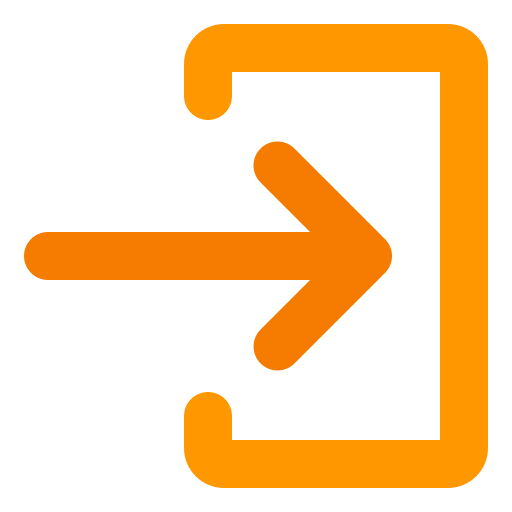
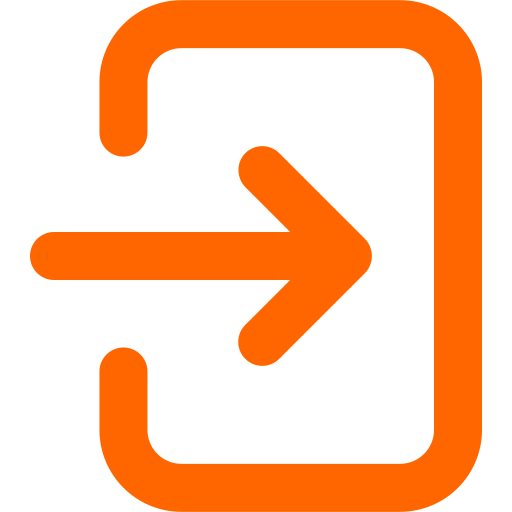
UC15

diff --git a/Aula09/CSS/style.css b/Aula09/CSS/style.css
@@ -8,7 +8,15 @@
     box-sizing: border-box;
 }
 
+html,
 body {
+    height: 100%;
+}
+
+body {
+    min-height: 100vh;
+    display: flex;
+    flex-direction: column;
     background-color: #f7f7f7;
 }
 
@@ -19,11 +27,11 @@ body {
     z-index: 10;
     width: 100%;
     background:#fff;
-    padding: 7px 0px;
     font-size: 14px;
     color: #ff6600;
     box-shadow: 0px 1px 10px #2020201f;
 }
+
 .cabecalho-conteudo {
     max-width: 1200px;
     width: 95%;
@@ -36,10 +44,43 @@ body {
     display: flex;
     align-items: center;
 }
+
+.comeco-cabecalho a {
+    text-decoration: none;
+    color: #ff6600;
+    display: flex;
+    align-items: center;
+    gap: 10px;
+    transition: 0.15s ease all;
+}
+
+.comeco-cabecalho a {
+    display: flex;
+    align-items: center;
+    height: 60px;
+    color: #ff5a00;
+    text-decoration: none;
+}
+
+.comeco-cabecalho a.ativo {
+    border-bottom: 2px solid #ff5a00;
+}
+
 .fim-cabecalho {
     display: flex;
-    gap:10px;
     align-items: center;
+}
+
+.fim-cabecalho a {
+    text-decoration: none;
+    color: #ff6600;
+    display: flex;
+    align-items: center;
+    gap: 10px;
+}
+
+.fim-cabecalho a:hover{
+    text-decoration: underline;
 }
 
 .cadastro {
@@ -222,4 +263,13 @@ body {
     cursor: pointer;
     color: #ff6600;
     background-color: #fff;
+}
+
+.rodape {
+    height: 100%;
+    display: flex;
+    flex-direction: column;
+    align-items: center;
+    justify-content: flex-end;
+    padding: 10px 0px;
 }

diff --git a/Aula09/index.html b/Aula09/index.html
@@ -10,13 +10,15 @@
     <header class="cabecalho">
         <div class="cabecalho-conteudo">
             <section class="comeco-cabecalho">
-                <img src="../Aula09/IMG/Authora.logopretolaranja.jpg" width="120">
-                <p>Cadastrar</p>
+                <img href="#" src="../Aula09/IMG/Authora.logopretolaranja.jpg" width="120" style="cursor: pointer;">
+                <a href="#" class="ativo">Cadastrar</a>
             </section>
 
             <section class="fim-cabecalho">
-                <img src="IMG/join.png" width="15">
-                <p>Login</p>
+                <a href="#">
+                    <img src="IMG/join.png" width="15" height="15">
+                    <p>Login</p>
+                </a>
             </section>
         </div>
         
@@ -132,7 +134,14 @@
                 <button class="botao-cancelar" onclick="cancelar()">Cancelar</button>
             </div>
         </div>
+
     </main>
+
+    <footer class="rodape">
+        <a href="https://www.ldsoft.com.br/">
+            <img src="../Aula09/IMG/Authora.loginlogoldsoft.png">
+        </a>
+    </footer>
     <script src="js/script.js"></script>
 </body>
 </html>
